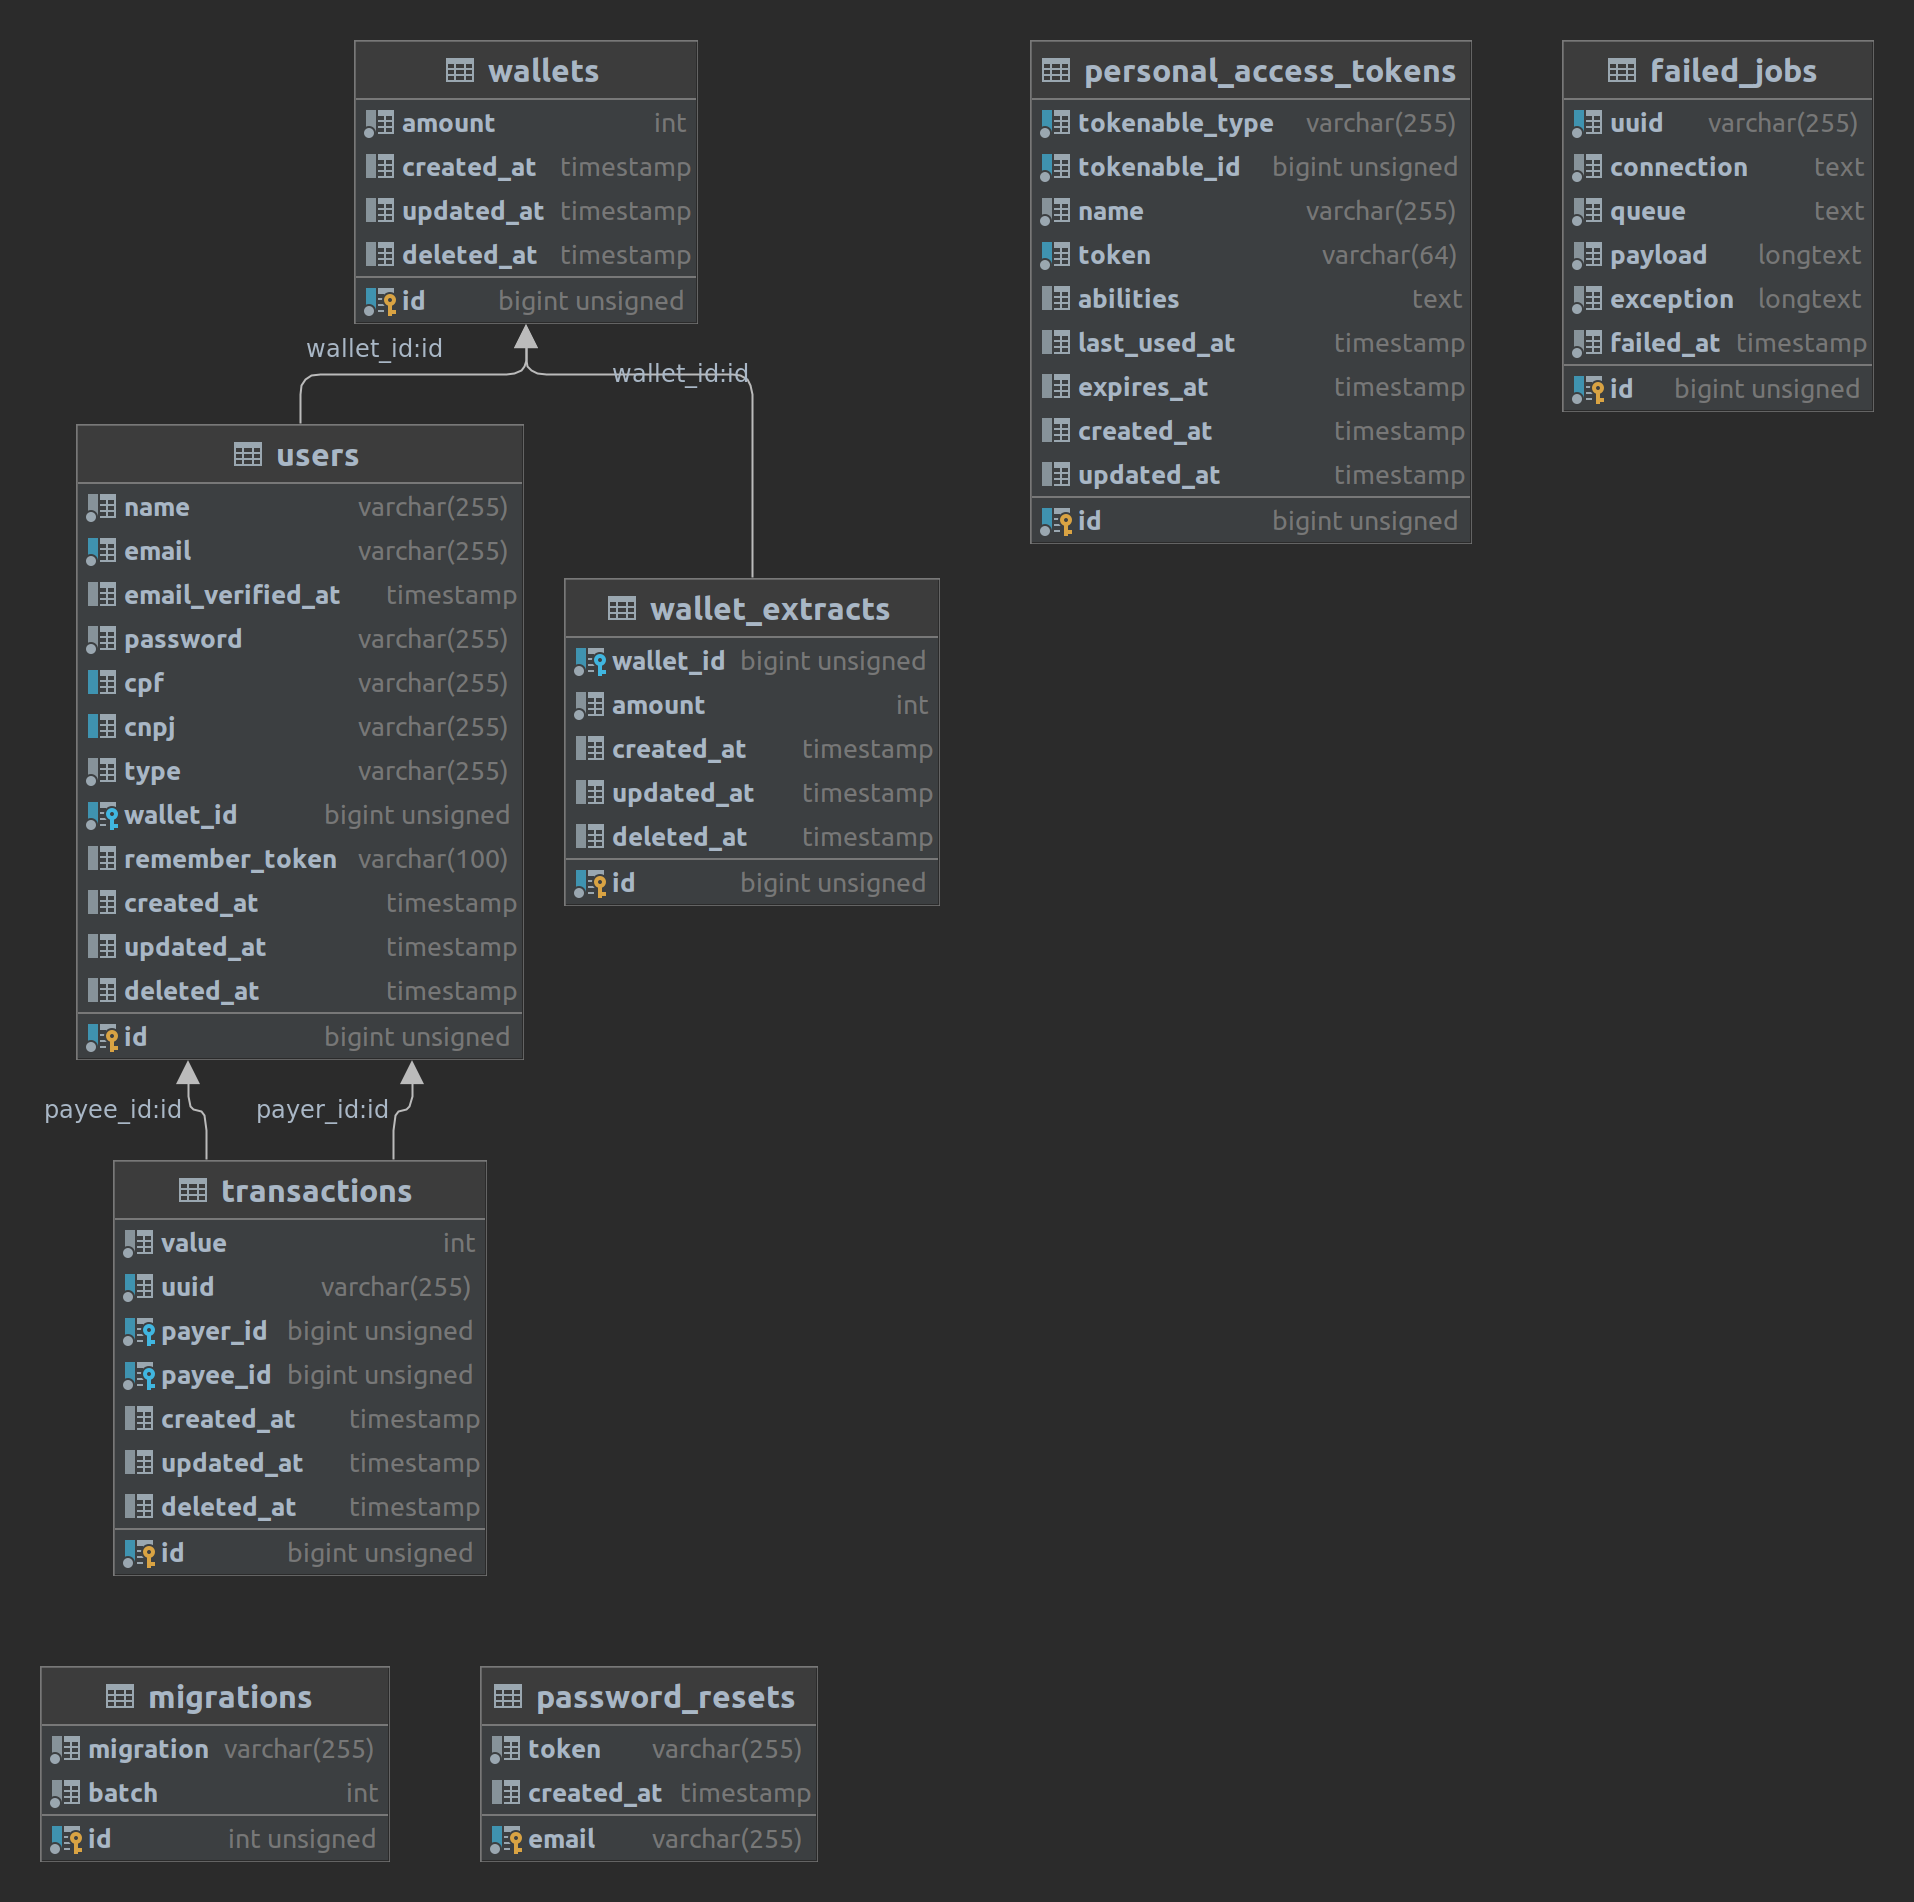
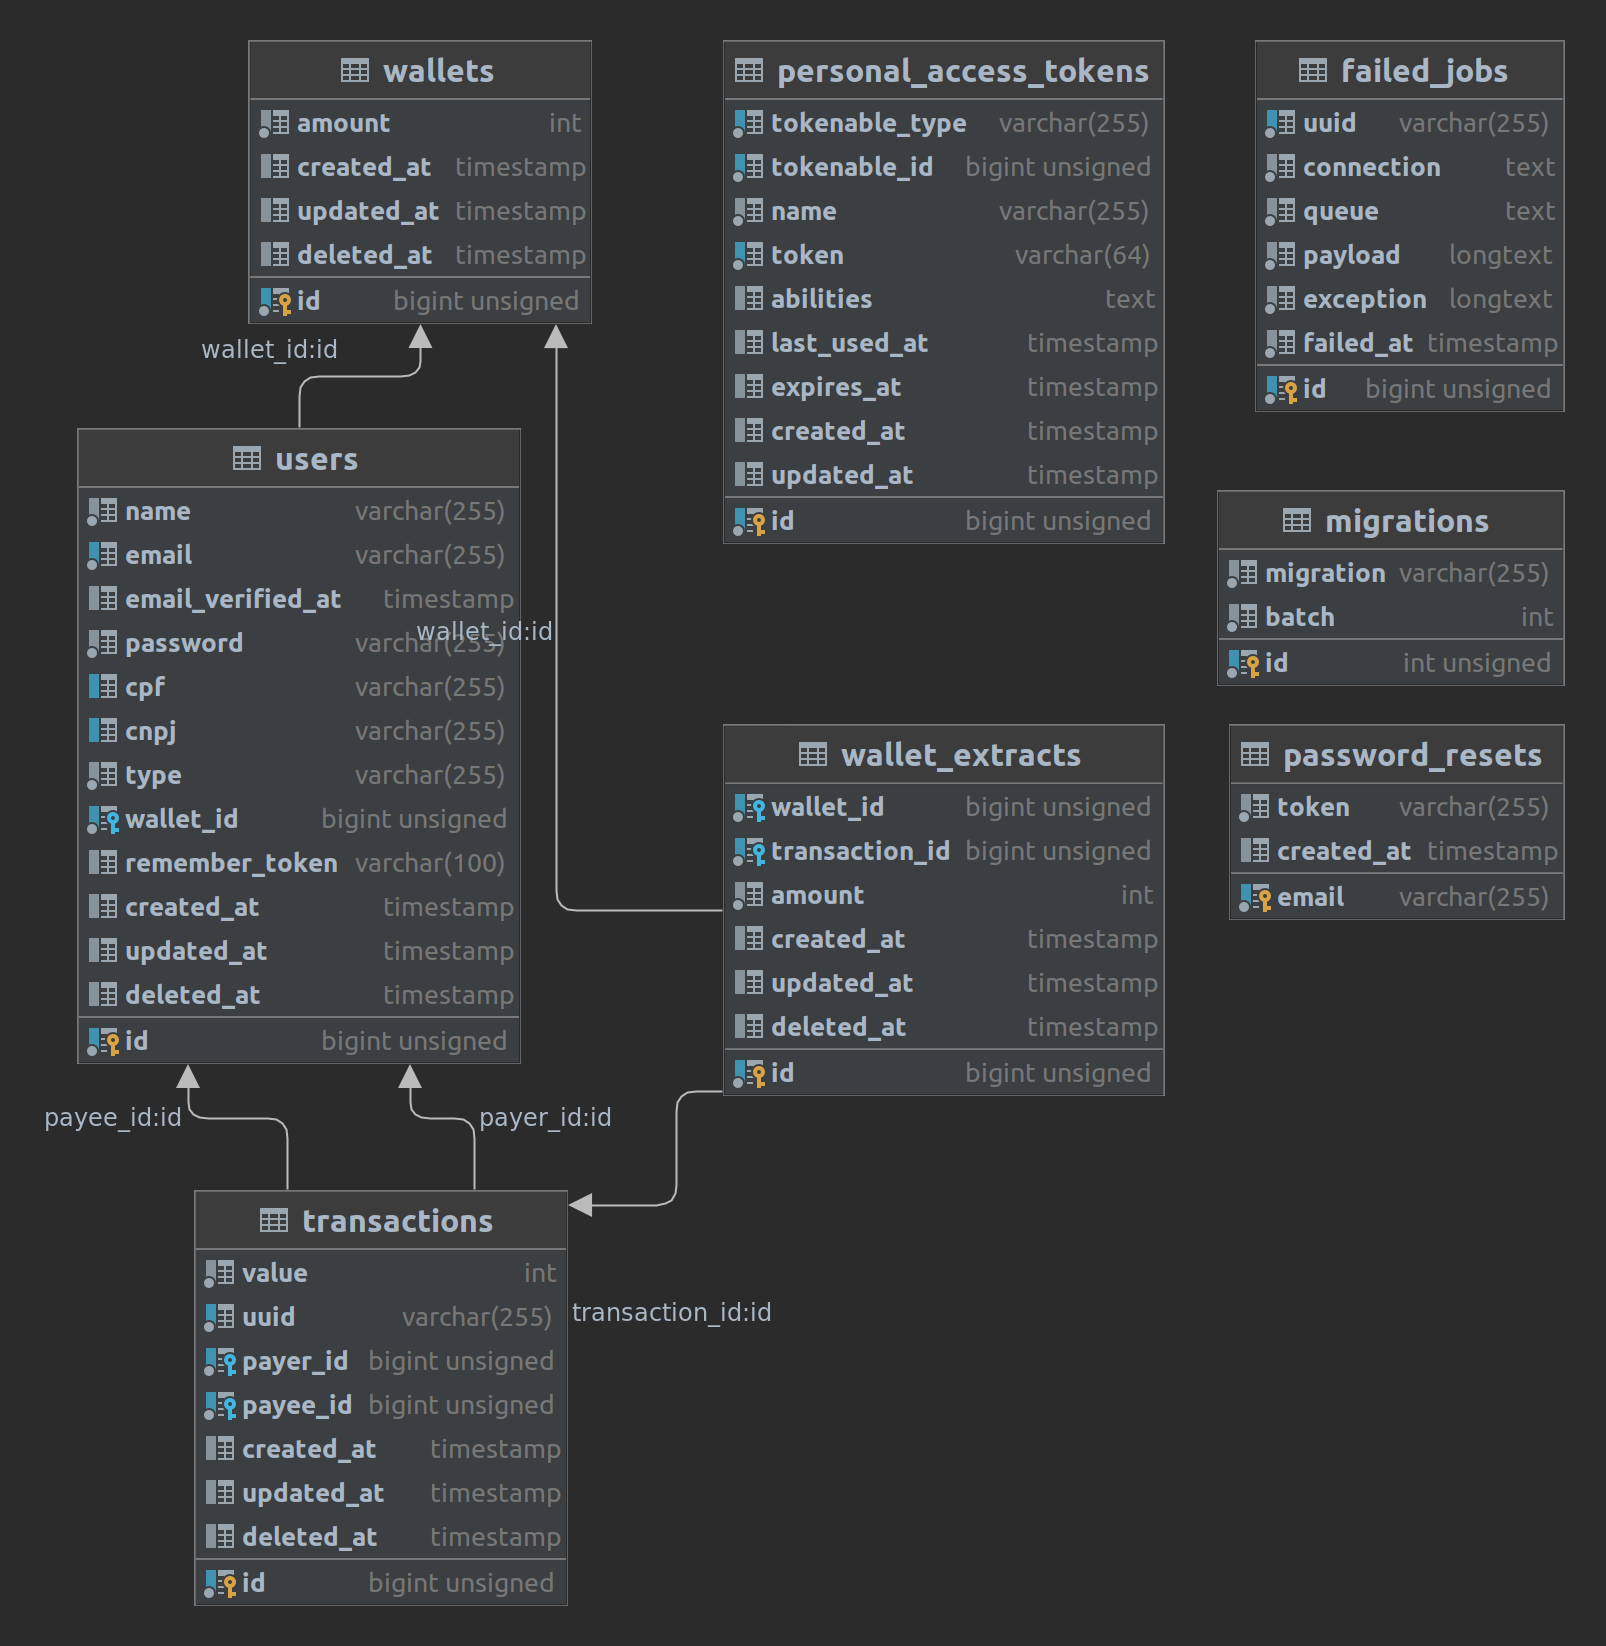
feat :bricks: id da transação no extrato da carteira

Changed region(s): [[0.0, 0.0, 0.9963, 0.9915], [0.7472, 0.3098, 0.9651, 0.5577], [0.3425, 0.7126, 0.3736, 0.7436]]

diff --git a/app/Repositories/Payments/TransactionRepository.php b/app/Repositories/Payments/TransactionRepository.php
@@ -44,8 +44,8 @@ class TransactionRepository extends BaseRepository
             $payee->wallet->save();
 
 
-            $this->saveExtract($payer->wallet->id, $payer->wallet->amount);
-            $this->saveExtract($payee->wallet->id, $payee->wallet->amount);
+            $this->saveExtract($payer->wallet->id, $payer->wallet->amount, $resource);
+            $this->saveExtract($payee->wallet->id, $payee->wallet->amount, $resource);
 
             PaymentNotification::dispatch();
 
@@ -57,10 +57,11 @@ class TransactionRepository extends BaseRepository
         return new TransactionResource($resource);
     }
 
-    public function saveExtract(int $walletId, int $amount): void
+    public function saveExtract(int $walletId, int $amount, Transaction|Model $transaction): void
     {
         WalletExtract::create([
             'wallet_id' => $walletId,
+            'transaction_id' => $transaction->id,
             'amount' => $amount,
         ]);
     }

diff --git a/database/migrations/2023_02_15_211407_create_wallet_extracts_table.php b/database/migrations/2023_02_15_211407_create_wallet_extracts_table.php
@@ -16,6 +16,7 @@ return new class extends Migration
         Schema::create('wallet_extracts', function (Blueprint $table) {
             $table->id();
             $table->foreignId('wallet_id')->constrained();
+            $table->foreignId('transaction_id')->constrained();
             $table->integer('amount');
             $table->timestamps();
             $table->softDeletes();

diff --git a/app/Models/WalletExtract.php b/app/Models/WalletExtract.php
@@ -16,7 +16,8 @@ class WalletExtract extends Model
      */
     protected $fillable = [
         'amount',
-        'wallet_id'
+        'wallet_id',
+        'transaction_id'
     ];
 
     /**
